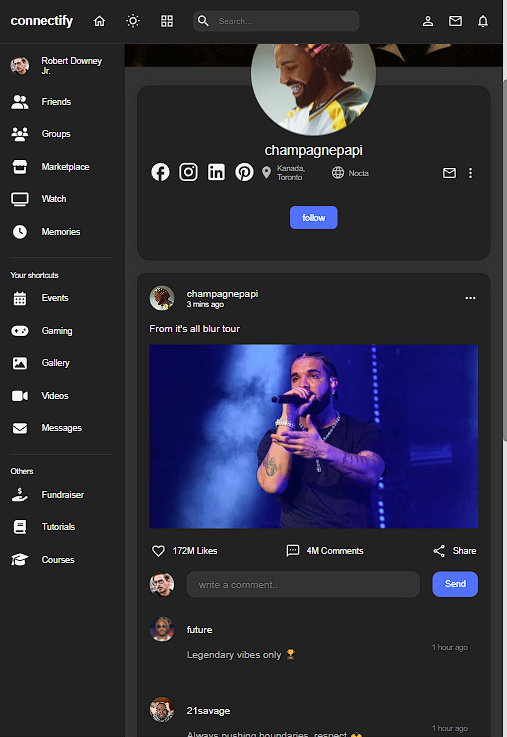
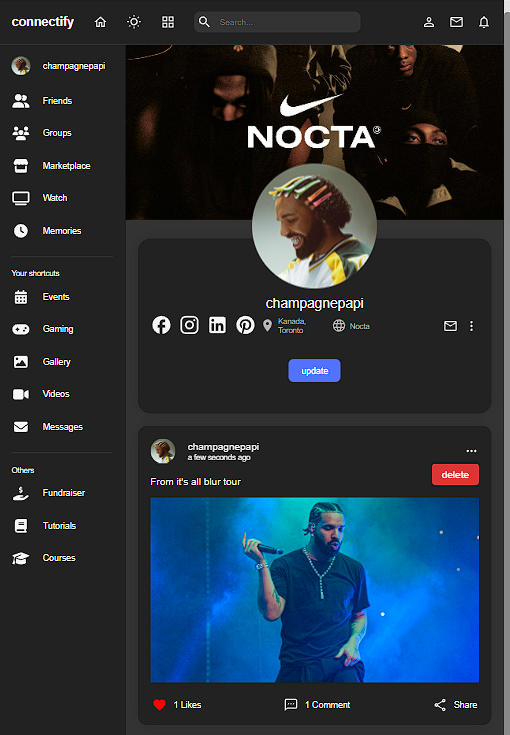
add functionality to delete posts

diff --git a/src/components/post/Post.jsx b/src/components/post/Post.jsx
@@ -15,6 +15,7 @@ import { AuthContext } from '../../context/authContext';
 const Post = ({post}) => {
 
     const [commentOpen, setCommentOpen] = useState(false);
+    const [menuOpen, setMenuOpen] = useState(false);
     const { currentUser } = useContext(AuthContext);
 
     // const liked = true; 
@@ -42,10 +43,27 @@ const Post = ({post}) => {
         }
     );
 
+    const deleteMutation = useMutation(
+        (postId) => {
+            return makeRequest.delete('/posts/' + postId);
+        },
+        {
+            onSuccess: () => {
+                queryClient.invalidateQueries(['posts']);
+            },
+        }
+    );
+
     const handleLike = () => {
         console.log(`Liked status: ${data.includes(currentUser.id)}`);
         
         mutation.mutate(data.includes(currentUser.id));
+    }
+
+    const handleDelete = () => {
+        console.log(`Liked status: ${data.includes(currentUser.id)}`);
+        
+        deleteMutation.mutate(post.id);
     }
 
     return (
@@ -61,7 +79,11 @@ const Post = ({post}) => {
                             <span className='date'>{moment(post.createdAt).fromNow()}</span>
                         </div>
                     </div>
-                    <MoreHorizIcon/>
+                    <MoreHorizIcon onClick={() => setMenuOpen(!menuOpen)} />
+                    { menuOpen 
+                        && post.userId !== currentUser.id 
+                        && (<button onClick={handleDelete}>delete</button>)
+                    }
                 </div>
                 <div className="content">
                     <p>{post.desc}</p>

diff --git a/src/components/post/post.scss b/src/components/post/post.scss
@@ -18,6 +18,7 @@
                 display: flex;
                 align-items: center;
                 justify-content: space-between;
+                position: relative;
 
                 .uInfo {
                     display: flex;
@@ -44,6 +45,19 @@
                             font-size: 12px;
                         }
                     }
+                }
+
+                button {
+                    position: absolute;
+                    top: 40px;
+                    right: 0px;
+                    border: none;
+                    border-radius: 5px;
+                    background-color: #ff3a3ad4;
+                    color: #fff;
+                    padding: 8px 16px;
+                    font-size: 16px;
+                    cursor: pointer;
                 }
             }
 

diff --git a/src/components/navbar/navbar.scss b/src/components/navbar/navbar.scss
@@ -52,7 +52,7 @@
                     }
 
                     @include small-laptop {
-                        width: 400px;
+                        width: 200px;
                         padding-right: 20px;
                     }
                 }

diff --git a/src/pages/home/home.scss b/src/pages/home/home.scss
@@ -4,6 +4,7 @@
     @include themify($themes) {
         padding: 20px 70px;
         background-color: themed('bgSoft');
+        min-height: 100vh;
         color: themed('textColor');
 
         @include mobile {
